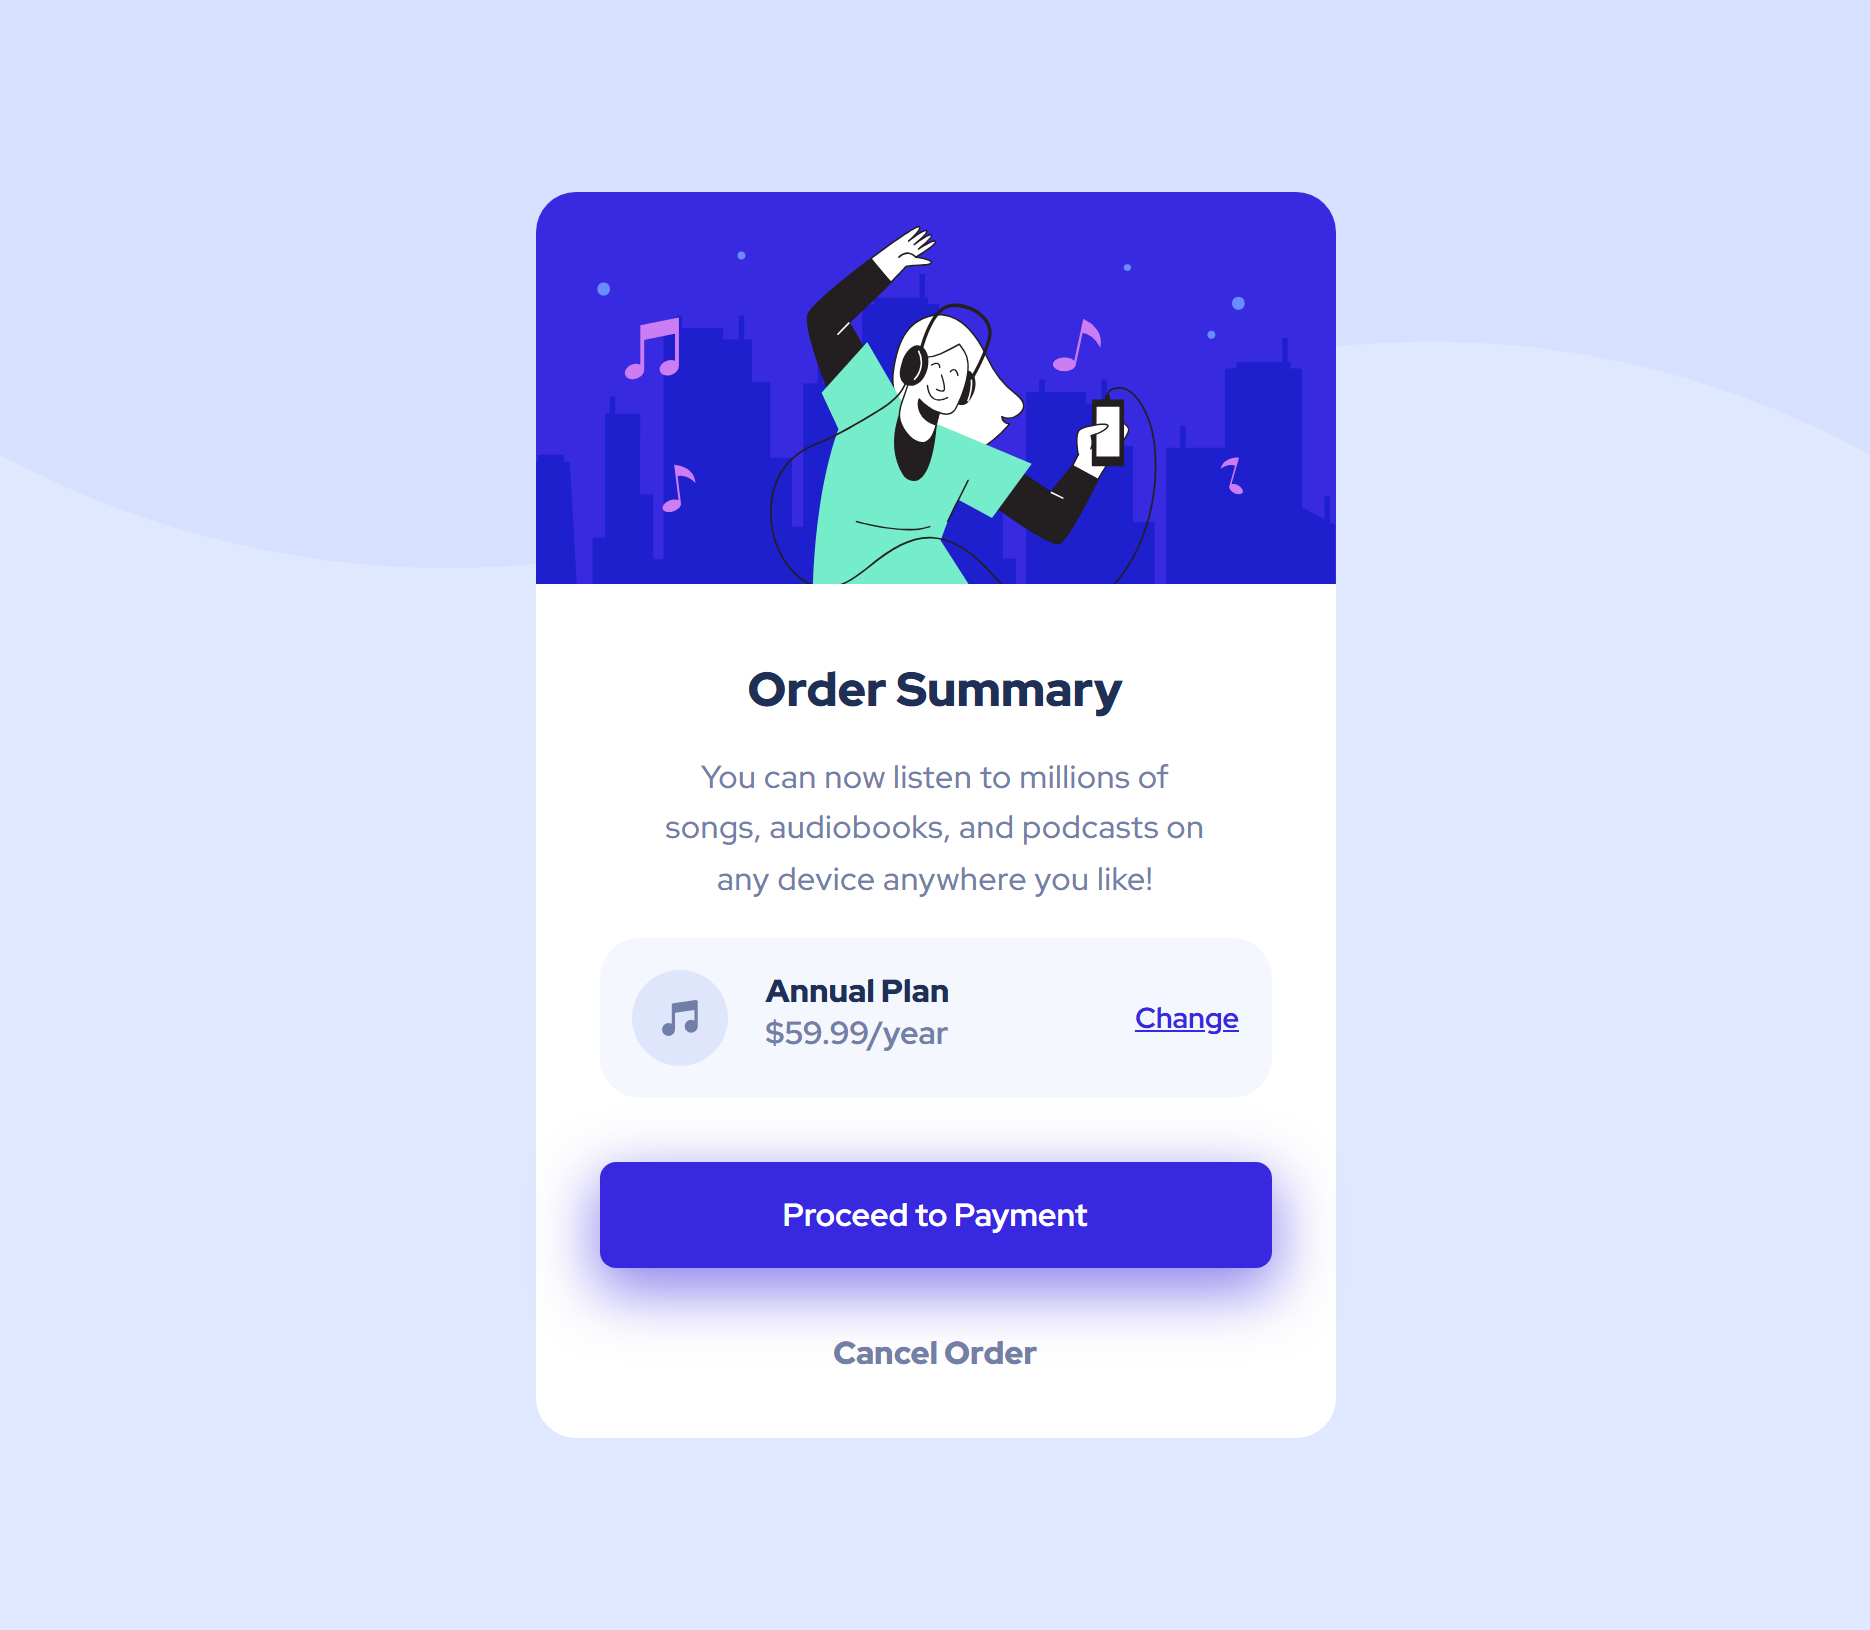
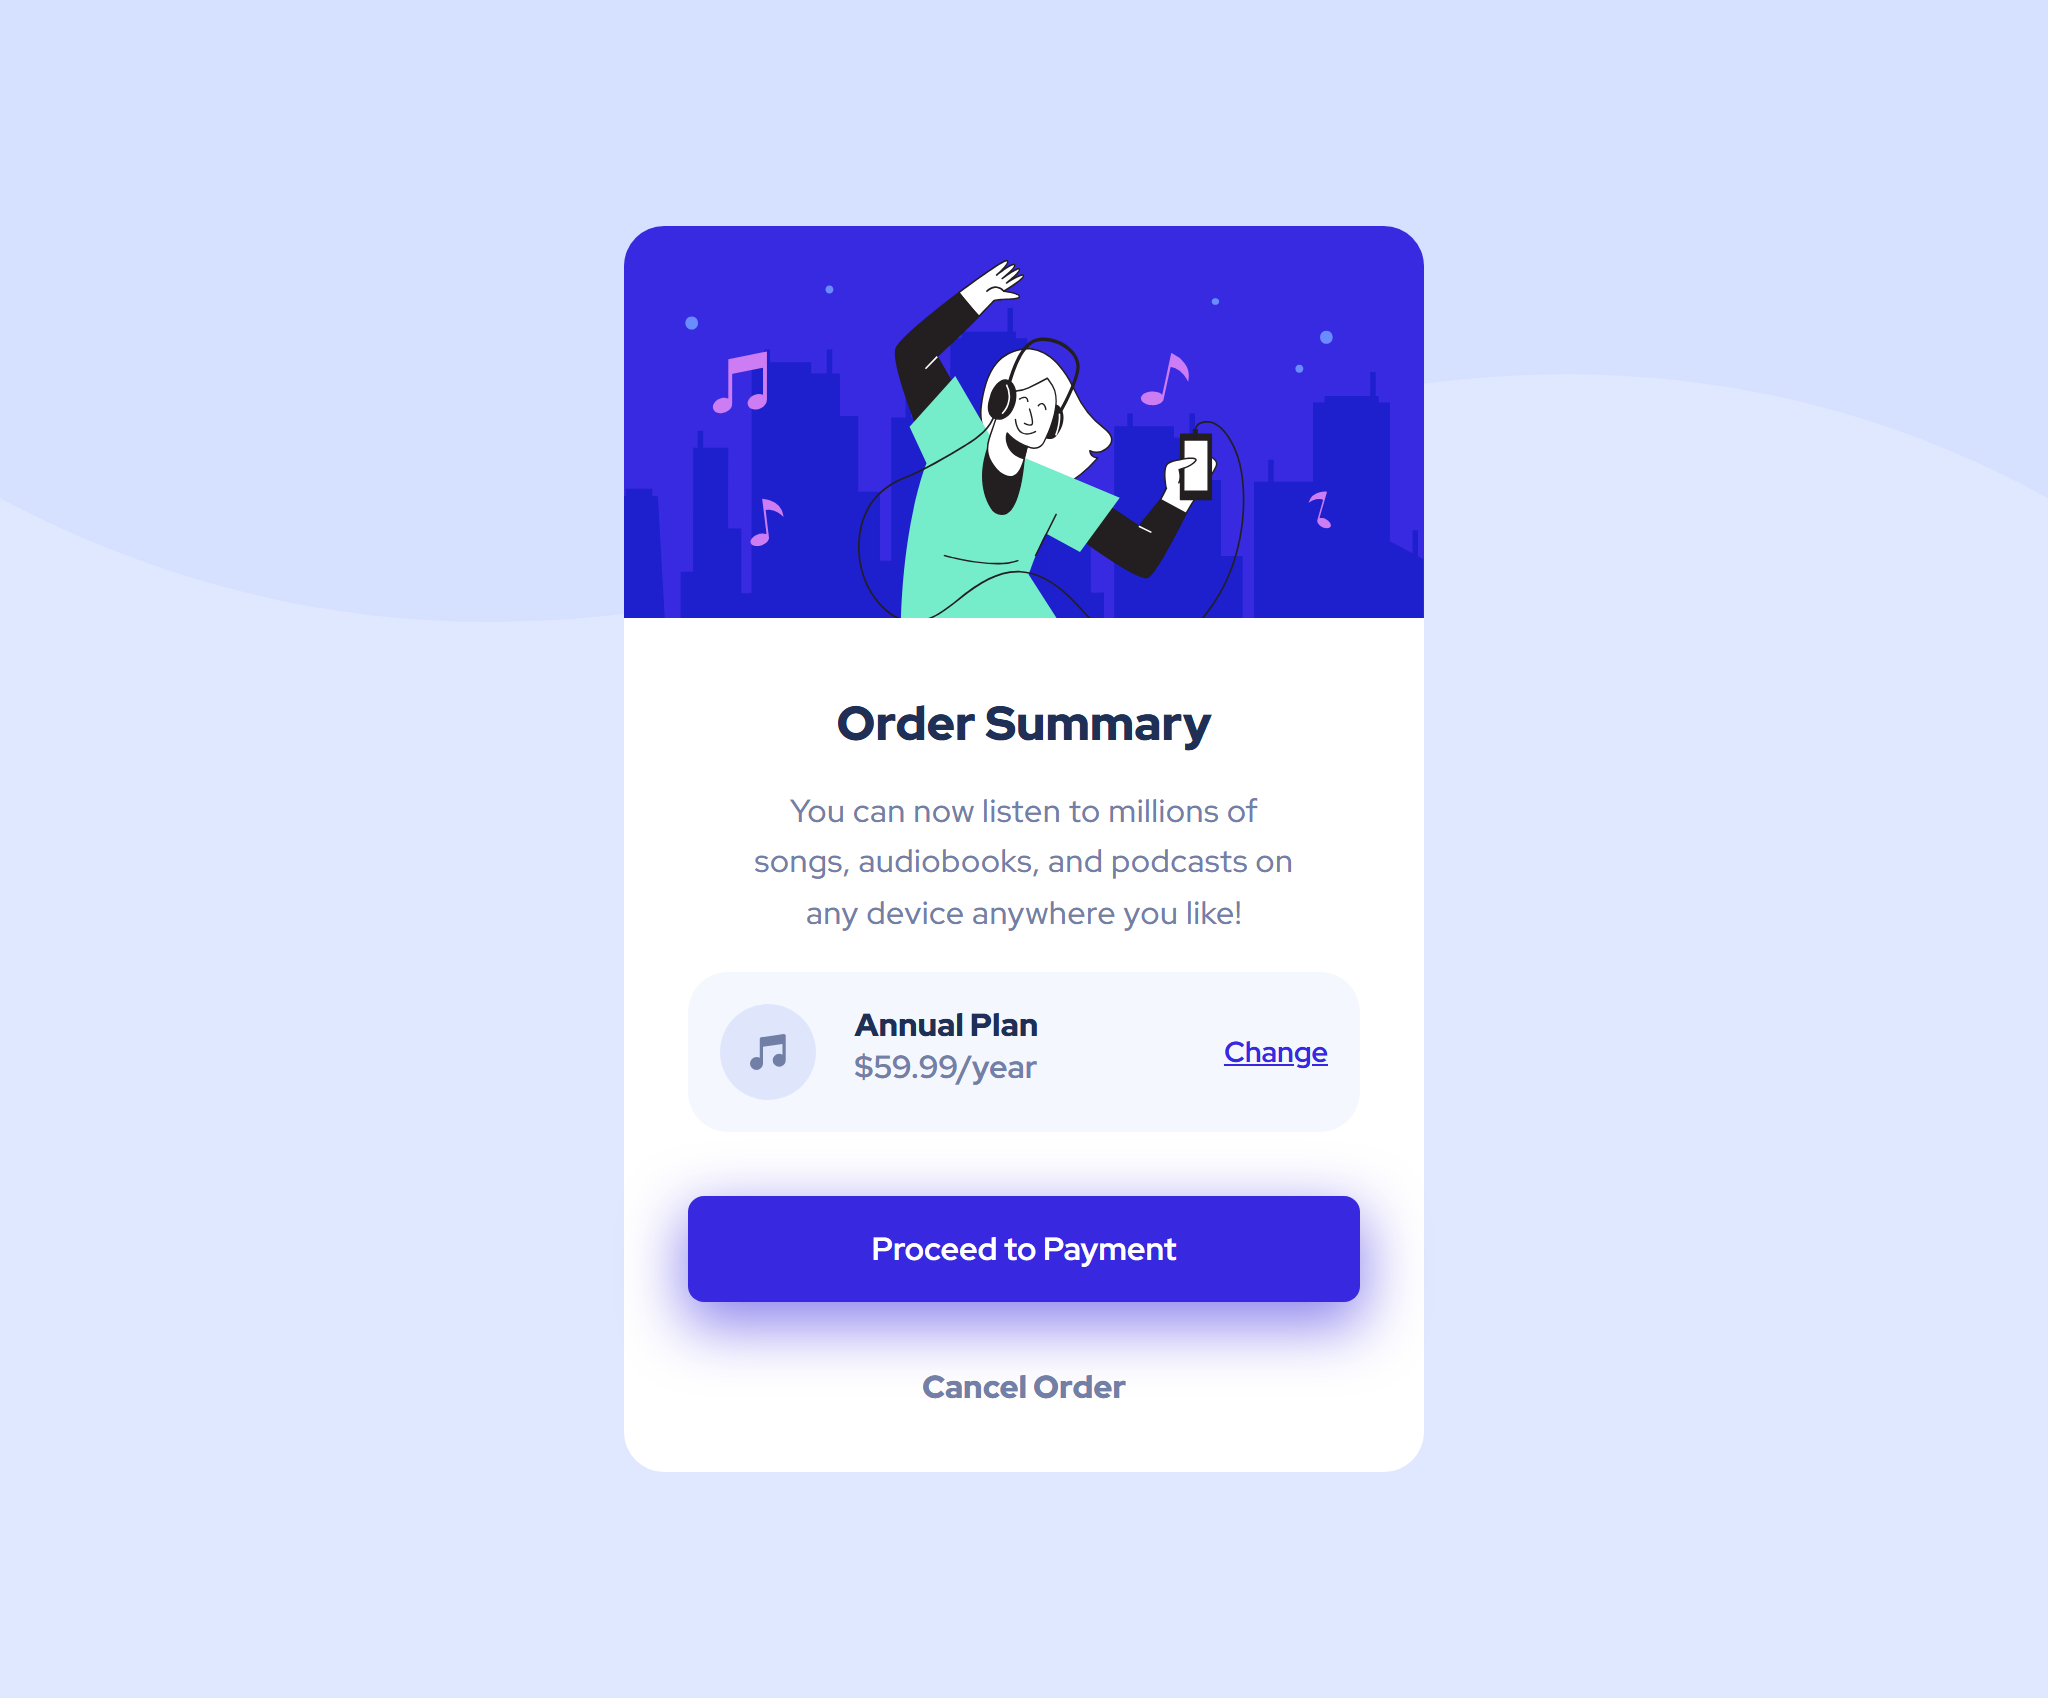
feat: update Card and CardList components styling
- Card component: Remove the technologies list and update GitHub icon for the "Repo" button

- Update index.ts CardProps removing the property technologies

- Update RootLayout styling
- Update globals.css with new breakpoint values for the 3xl class to work with no problems
- Update card images for the challenges: Order Summary, Fylo and Sneakers

diff --git a/src/app/components/shared/Cards/Card/Card.tsx b/src/app/components/shared/Cards/Card/Card.tsx
@@ -1,8 +1,8 @@
+import clsx from "clsx";
 import type { CardProps } from "@/app/types";
 import Image from "next/image";
 import LinkButton from "../../../ui/LinkButton/LinkButton";
-import TechnologyIcon from "../../Technology/TechnologyIcon";
-import { FiExternalLink, FaGithub } from "@/app/utils/icons";
+import { FiExternalLink, IoLogoGithub } from "@/app/utils/icons";
 
 /**
  * Renders a card component with:
@@ -16,50 +16,49 @@ export default function Card({
   imageSrc,
   imageAlt,
   cardTitle,
-  technologies,
   cardDescription,
   demoLink,
   codeLink,
 }: CardProps) {
   return (
-    <div
-      className="flex flex-col items-center overflow-hidden bg-white border-2 border-stone-300 
-      rounded-lg shadow-lg hover:shadow-xl duration-700 w-85 h-140 
-      md:w-100 md:h-150 
-      lg:w-110 lg:h-165"
+    <article
+      className={clsx(
+        "flex flex-col px-3.5 py-5",
+        "bg-white border-2 border-stone-300 rounded-3xl shadow-lg",
+        "hover:shadow-xl duration-700",
+      )}
     >
       {/*Card Image*/}
-      <div className="relative w-full flex-[1] overflow-hidden border-b-2 border-b-stone-300">
+      <div
+        className={clsx(
+          "relative h-60 overflow-hidden",
+          "border-1 border-stone-300 rounded-3xl",
+          "sm:h-[25rem]",
+        )}
+      >
         <Image
           src={imageSrc}
           alt={imageAlt}
           fill
-          className="object-cover hover:scale-105 duration-700"
+          className={clsx(
+            "rounded-3xl object-fill hover:scale-105 duration-700",
+          )}
         />
       </div>
 
       {/*Card Body*/}
-      <div className="h-[20rem] flex flex-col items-center p-4 overflow-hidden md:h-[22rem] lg:h-[22rem]">
-        <header className="mb-8">
-          {/*Card Title*/}
-          <h3 className="text-xl font-bold md:text-xl lg:text-2xl">
-            {cardTitle}
-          </h3>
-        </header>
+      <div className="flex-1 flex flex-col">
+        {/*Card Title*/}
+        <h3 className={clsx("my-4 text-center font-bold text-xl", "sm:my-6")}>
+          {cardTitle}
+        </h3>
 
-        <p className="text-center h-20 mb-4 lg:text-lg">{cardDescription}</p>
-
-        {/*Technologies list*/}
-        <div className="flex flex-wrap justify-center gap-4 w-[16.5rem] h-16 mb-4 md:mb-16">
-          {technologies.map((tech, index) => (
-            <div key={index}>
-              <TechnologyIcon name={tech} />
-            </div>
-          ))}
-        </div>
+        <p className={clsx("mb-8 text-center", "sm:mb-10")}>
+          {cardDescription}
+        </p>
 
         {/*Card Buttons*/}
-        <div className="flex gap-8 mb-4">
+        <div className={clsx("flex justify-center gap-8 mt-auto")}>
           <LinkButton
             link={demoLink}
             description={
@@ -73,13 +72,13 @@ export default function Card({
             link={codeLink}
             description={
               <>
-                <FaGithub className="text-xl" />
+                <IoLogoGithub className="text-xl" />
                 <span className="font-bold">Repo</span>
               </>
             }
           />
         </div>
       </div>
-    </div>
+    </article>
   );
 }

diff --git a/src/app/components/shared/Cards/CardList/CardList.tsx b/src/app/components/shared/Cards/CardList/CardList.tsx
@@ -1,3 +1,4 @@
+import clsx from "clsx";
 import type { CardListProps, CardProps } from "@/app/types";
 import Card from "../../../shared/Cards/Card/Card";
 
@@ -8,14 +9,19 @@ import Card from "../../../shared/Cards/Card/Card";
  */
 export default function CardList({ cardList }: CardListProps) {
   return (
-    <div className="grid grid-cols-1 gap-8 lg:grid-cols-2 lg:gap-y-16 2xl:grid-cols-3 3xl:gap-16">
+    <div
+      className={clsx(
+        "grid grid-cols-1 gap-8 w-full",
+        "lg:grid-cols-2 lg:gap-y-8",
+        "2xl:grid-cols-3 2xl:gap-y-10",
+      )}
+    >
       {cardList.map((card: CardProps, index) => (
         <Card
           key={index}
           imageSrc={card.imageSrc}
           imageAlt={card.imageAlt}
           cardTitle={card.cardTitle}
-          technologies={card.technologies}
           cardDescription={card.cardDescription}
           demoLink={card.demoLink}
           codeLink={card.codeLink}

diff --git a/src/app/layout.tsx b/src/app/layout.tsx
@@ -1,6 +1,7 @@
 import type { Metadata } from "next";
 import "./globals.css";
 import { Inter, Caprasimo } from "next/font/google";
+import clsx from "clsx";
 import Nav from "./components/sections/Nav/Nav";
 import Footer from "./components/sections/Footer/Footer";
 
@@ -27,9 +28,16 @@ export default function RootLayout({
 }>) {
   return (
     <html lang="en" className={`${caprasimo.variable} ${inter.variable}`}>
-      <body className="bg-slate-100 flex flex-col min-h-screen">
+      <body className="flex flex-col min-h-screen bg-slate-100">
         <Nav />
-        <main className="flex-1 px-4 my-16 md:px-8 lg:px-12 xl:px-16 2xl:px-20 3xl:px-40">
+        <main
+          className={clsx(
+            "flex-1 px-4 py-16",
+            "sm:px-10 md:px-12",
+            "lg:px-14 xl:px-16 2xl:px-20",
+            "3xl:px-40 3xl:py-20",
+          )}
+        >
           {children}
         </main>
         <Footer />

diff --git a/src/app/types/index.ts b/src/app/types/index.ts
@@ -28,7 +28,6 @@ export type TechnologyName =
  * @property imageAlt        - alt text for the image
  * @property cardTitle       - title of the card
  * @property cardDescription - description of the card
- * @property technologies    - technologies used
  * @property demoLink        - link URL for the "Live Demo" button
  * @property codeLink        - link URL for the "View Code" button
  */
@@ -37,7 +36,6 @@ export type CardProps = {
   imageAlt: string;
   cardTitle: string;
   cardDescription: string;
-  technologies: TechnologyName[];
   demoLink: string;
   codeLink: string;
 };

diff --git a/src/app/globals.css b/src/app/globals.css
@@ -1,6 +1,11 @@
 @import "tailwindcss";
 
 @theme {
+  --breakpoint-sm: 640px;
+  --breakpoint-md: 768px;
+  --breakpoint-lg: 1024px;
+  --breakpoint-xl: 1280px;
+  --breakpoint-2xl: 1536px;
   --breakpoint-3xl: 1800px;
 }
 
